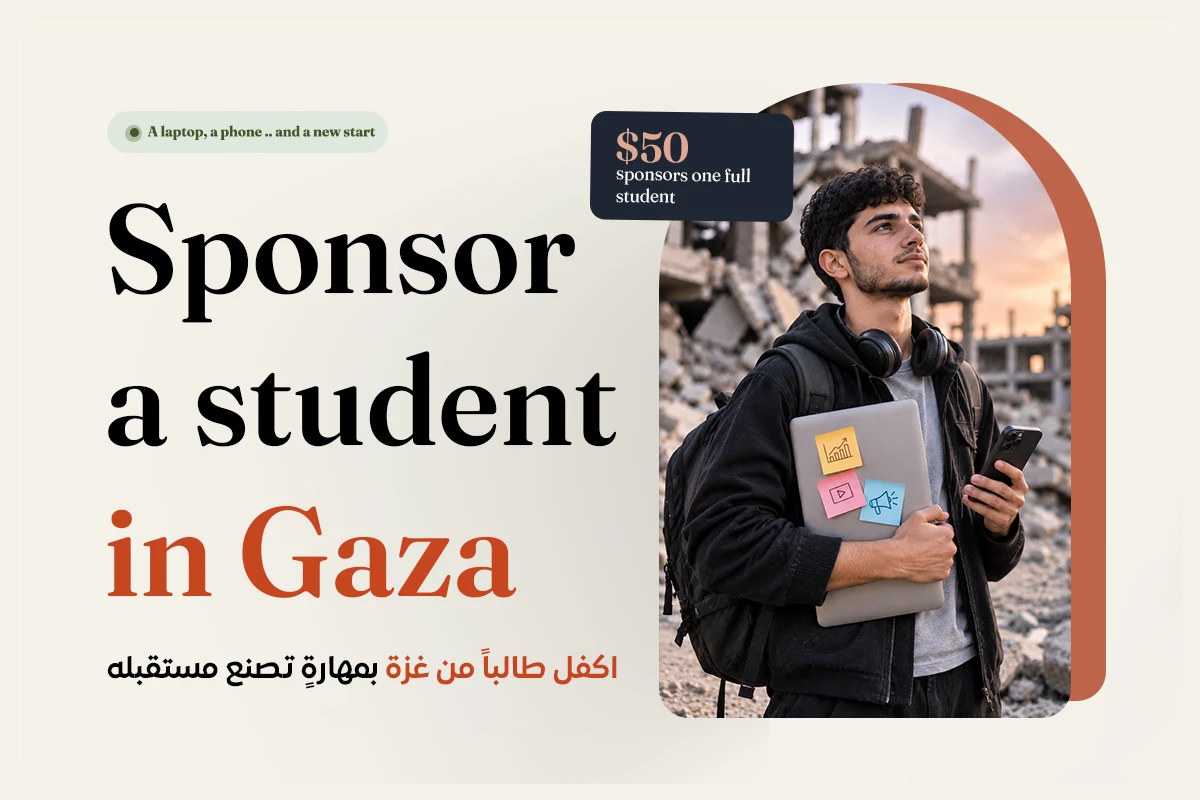
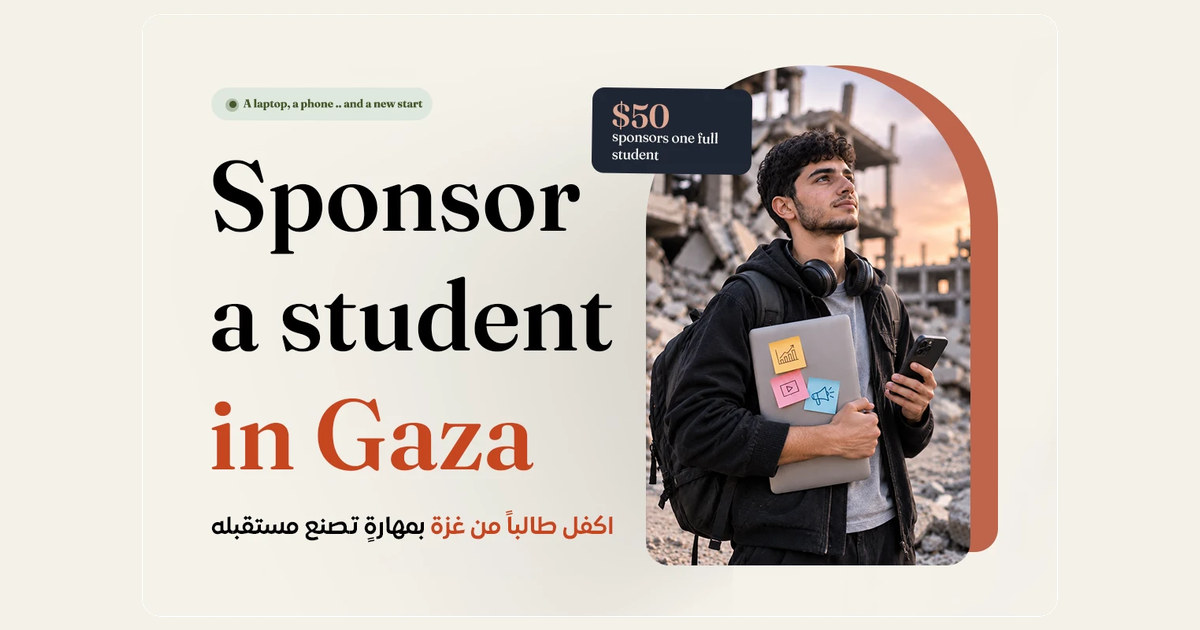
Sponsor page: 1200x630 share image so WhatsApp shows a large preview
Claude-Session: https://claude.ai/code/session_01XFthUk7WGd47y8wan7ditS

diff --git a/sponsor/index.html b/sponsor/index.html
@@ -15,18 +15,18 @@
   <meta property="og:title" content="Sponsor a student in Gaza">
   <meta property="og:description" content="Help a student in Gaza learn social media marketing and build an income from remote work.">
   <meta property="og:url" content="https://thaerdesigner.com/sponsor/">
-  <meta property="og:image" content="https://thaerdesigner.com/sponsor/og.jpg?v=4">
-  <meta property="og:image:secure_url" content="https://thaerdesigner.com/sponsor/og.jpg?v=4">
+  <meta property="og:image" content="https://thaerdesigner.com/sponsor/og.jpg?v=5">
+  <meta property="og:image:secure_url" content="https://thaerdesigner.com/sponsor/og.jpg?v=5">
   <meta property="og:image:type" content="image/jpeg">
   <meta property="og:image:width" content="1200">
-  <meta property="og:image:height" content="800">
+  <meta property="og:image:height" content="630">
   <meta property="og:image:alt" content="Sponsor a student in Gaza">
-  <link rel="image_src" href="https://thaerdesigner.com/sponsor/og.jpg?v=4">
-  <meta itemprop="image" content="https://thaerdesigner.com/sponsor/og.jpg?v=4">
+  <link rel="image_src" href="https://thaerdesigner.com/sponsor/og.jpg?v=5">
+  <meta itemprop="image" content="https://thaerdesigner.com/sponsor/og.jpg?v=5">
   <meta name="twitter:card" content="summary_large_image">
   <meta name="twitter:title" content="Sponsor a student in Gaza">
   <meta name="twitter:description" content="Help a student in Gaza learn social media marketing and build an income from remote work.">
-  <meta name="twitter:image" content="https://thaerdesigner.com/sponsor/og.jpg?v=4">
+  <meta name="twitter:image" content="https://thaerdesigner.com/sponsor/og.jpg?v=5">
   <meta name="twitter:image:alt" content="Sponsor a student in Gaza">
   <link rel="icon" type="image/png" sizes="32x32" href="../assets/icon/favicon-32.png">
   <link rel="apple-touch-icon" href="../assets/icon/apple-touch-icon.png">

diff --git a/README.md b/README.md
@@ -94,5 +94,5 @@ python3 -m http.server 8080
 - **كل الإعدادات في أعلى `sponsor/sponsor.js` داخل `CONFIG`**: مبالغ الكفالة، ورقم واتساب، والبريد، ووسائل الدفع.
 - **وسائل الدفع**: لكل وسيلة إما `url` (رابط دفع مثل PayPal وPayoneer) أو حقول `value` تُنسخ بضغطة (رقم IBAN، محفظة USDT، بال باي، جوال باي، ...). الوسيلة التي بياناتها فارغة تظهر بزر «اطلب البيانات عبر واتساب». لإخفاء وسيلة اجعل `show: false`.
 - **الصور**: صورة أعلى الصفحة `sponsor/photo.jpg` (طولية 4:5)، وصورة المدرب `sponsor/trainer.jpg` (طولية 3:4). استبدلهما بصور جديدة بنفس الاسم، أو غيّر `photo` و`trainerPhoto` في `CONFIG`.
-- **صورة المعاينة عند مشاركة الرابط**: `sponsor/og.jpg` بمقاس 1200×800 وحجم أقل من 300KB حتى تظهر في كل المنصات بما فيها واتساب (التصميم الأصلي بحواف شفافة محفوظ في `sponsor/og.png`). عند استبدالها غيّر رقم `?v=` في رابطها داخل `sponsor/index.html`.
+- **صورة المعاينة عند مشاركة الرابط**: `sponsor/og.jpg` بمقاس 1200×630 (النسبة التي يعرض بها واتساب الصورة كبيرة) وحجم أقل من 300KB حتى تظهر في كل المنصات بما فيها واتساب (التصميم الأصلي بحواف شفافة محفوظ في `sponsor/og.png`). عند استبدالها غيّر رقم `?v=` في رابطها داخل `sponsor/index.html`.
 - بعد أي تعديل غيّر رقم `?v=` في رابطي `sponsor.css` و`sponsor.js` داخل `sponsor/index.html`.
